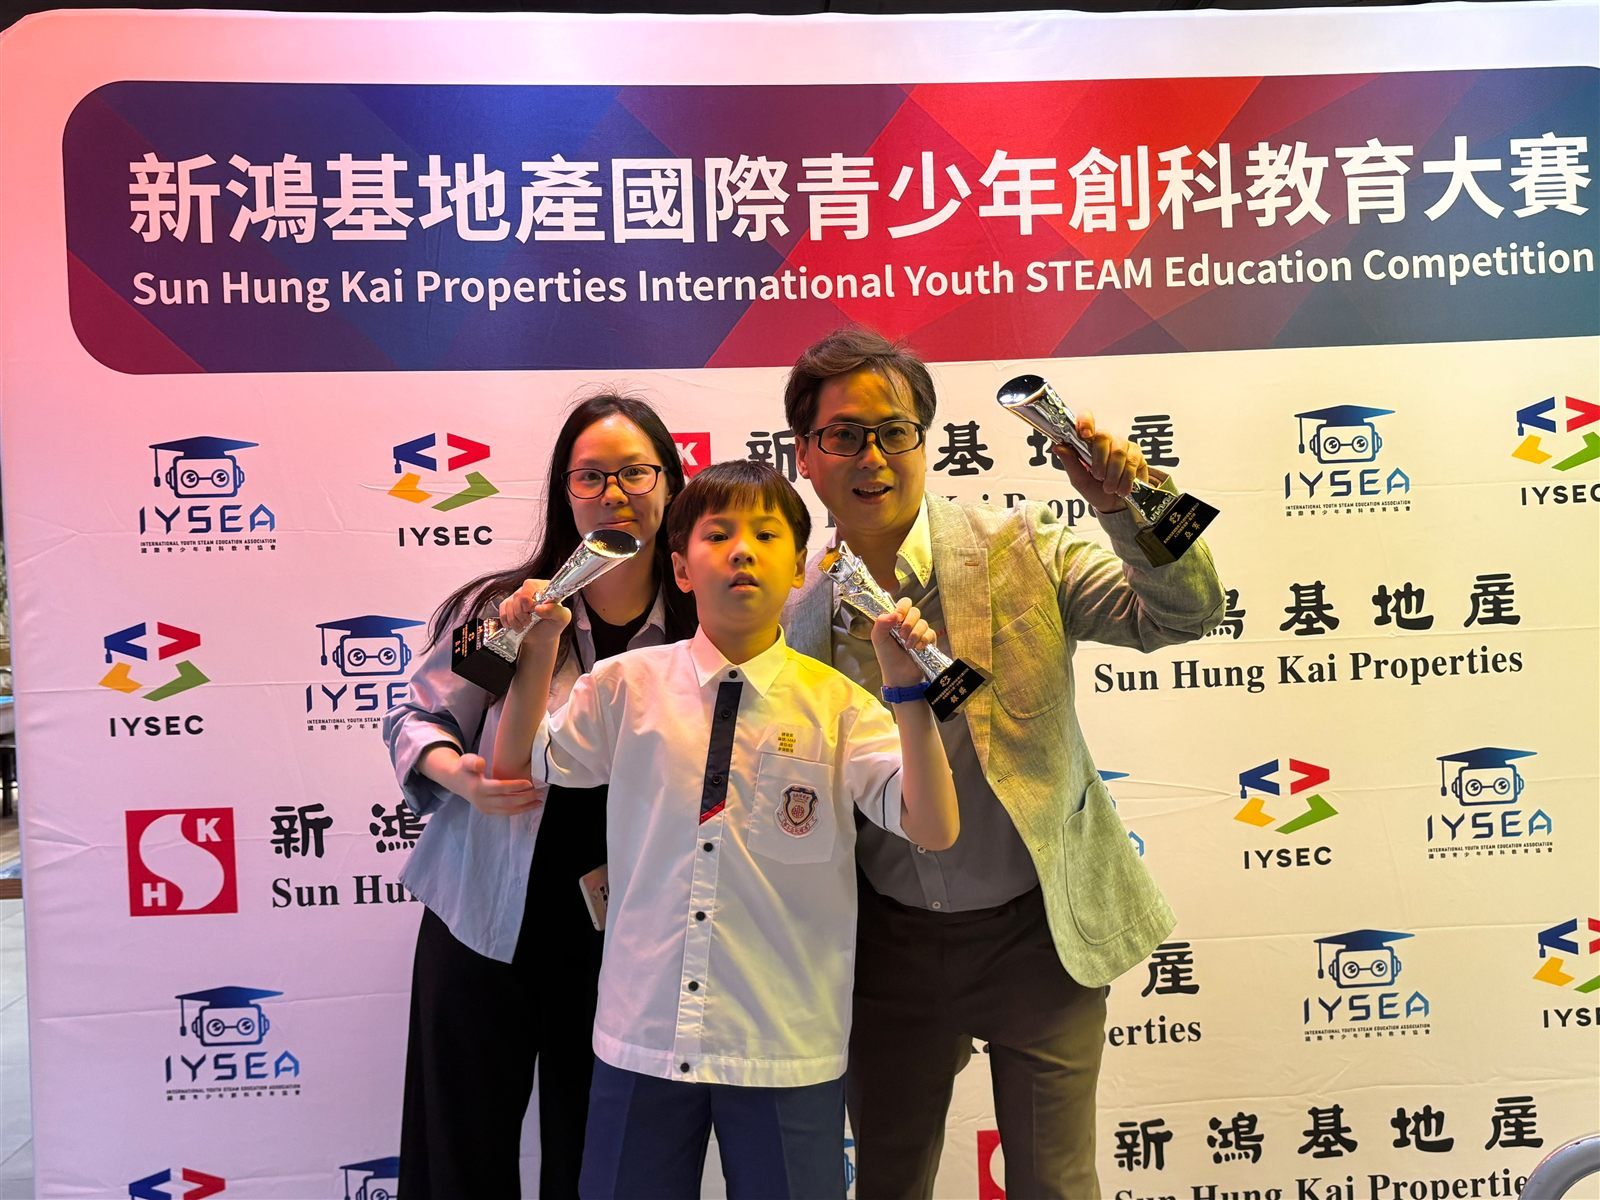
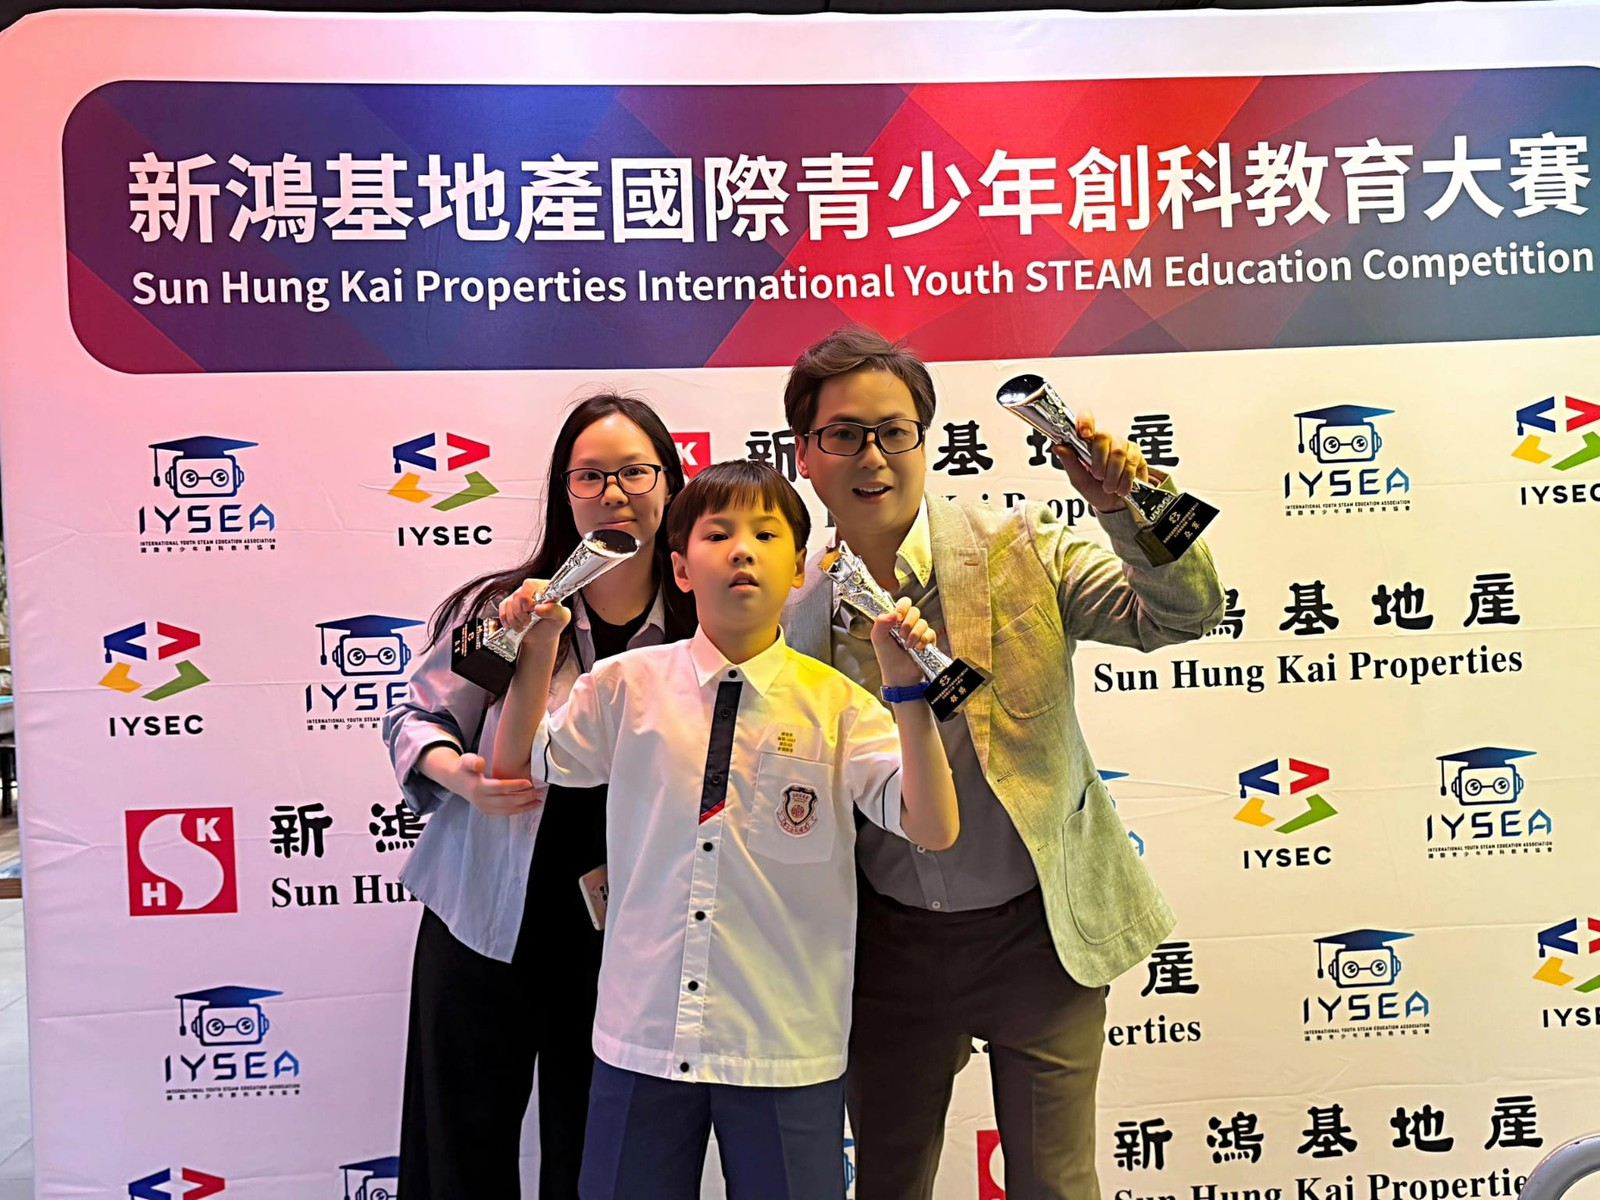
Joyful Moments: replace 3rd family shot; put new photo at gallery bottom

diff --git a/src/data/awards.ts b/src/data/awards.ts
@@ -238,11 +238,9 @@ export const photos = {
     { file: 'ceremony/08-lining-up.jpg', en: 'Oliver lining up for the stage', zh: '渝棠排隊上台' },
     { file: 'ceremony/12-event-backdrop.jpg', en: 'With trophies at the event backdrop', zh: '活動背板前與獎盃' },
     { file: '02-family-trophies-alt.jpg', en: 'Family with trophies', zh: '一家與獎盃合照' },
-    { file: '03-family-trophies-proud.jpg', en: 'Proud family moment', zh: '一家驕傲合照' },
     { file: '05-oliver-speech-stage.jpg', en: 'Oliver speaking on stage', zh: '渝棠舞台發言' },
     { file: '06-oliver-speech-close.jpg', en: 'Speech close-up with mic', zh: '發言特寫' },
     { file: 'ceremony/14-family-trophies-backdrop.jpg', en: 'Family with trophies at the backdrop', zh: '一家於背板前手持獎盃' },
-    { file: '01-hero-family-trophies.jpg', en: 'Proud family with IYSEC trophies', zh: '一家驕傲手持獎盃' },
   ],
 } as const
 
